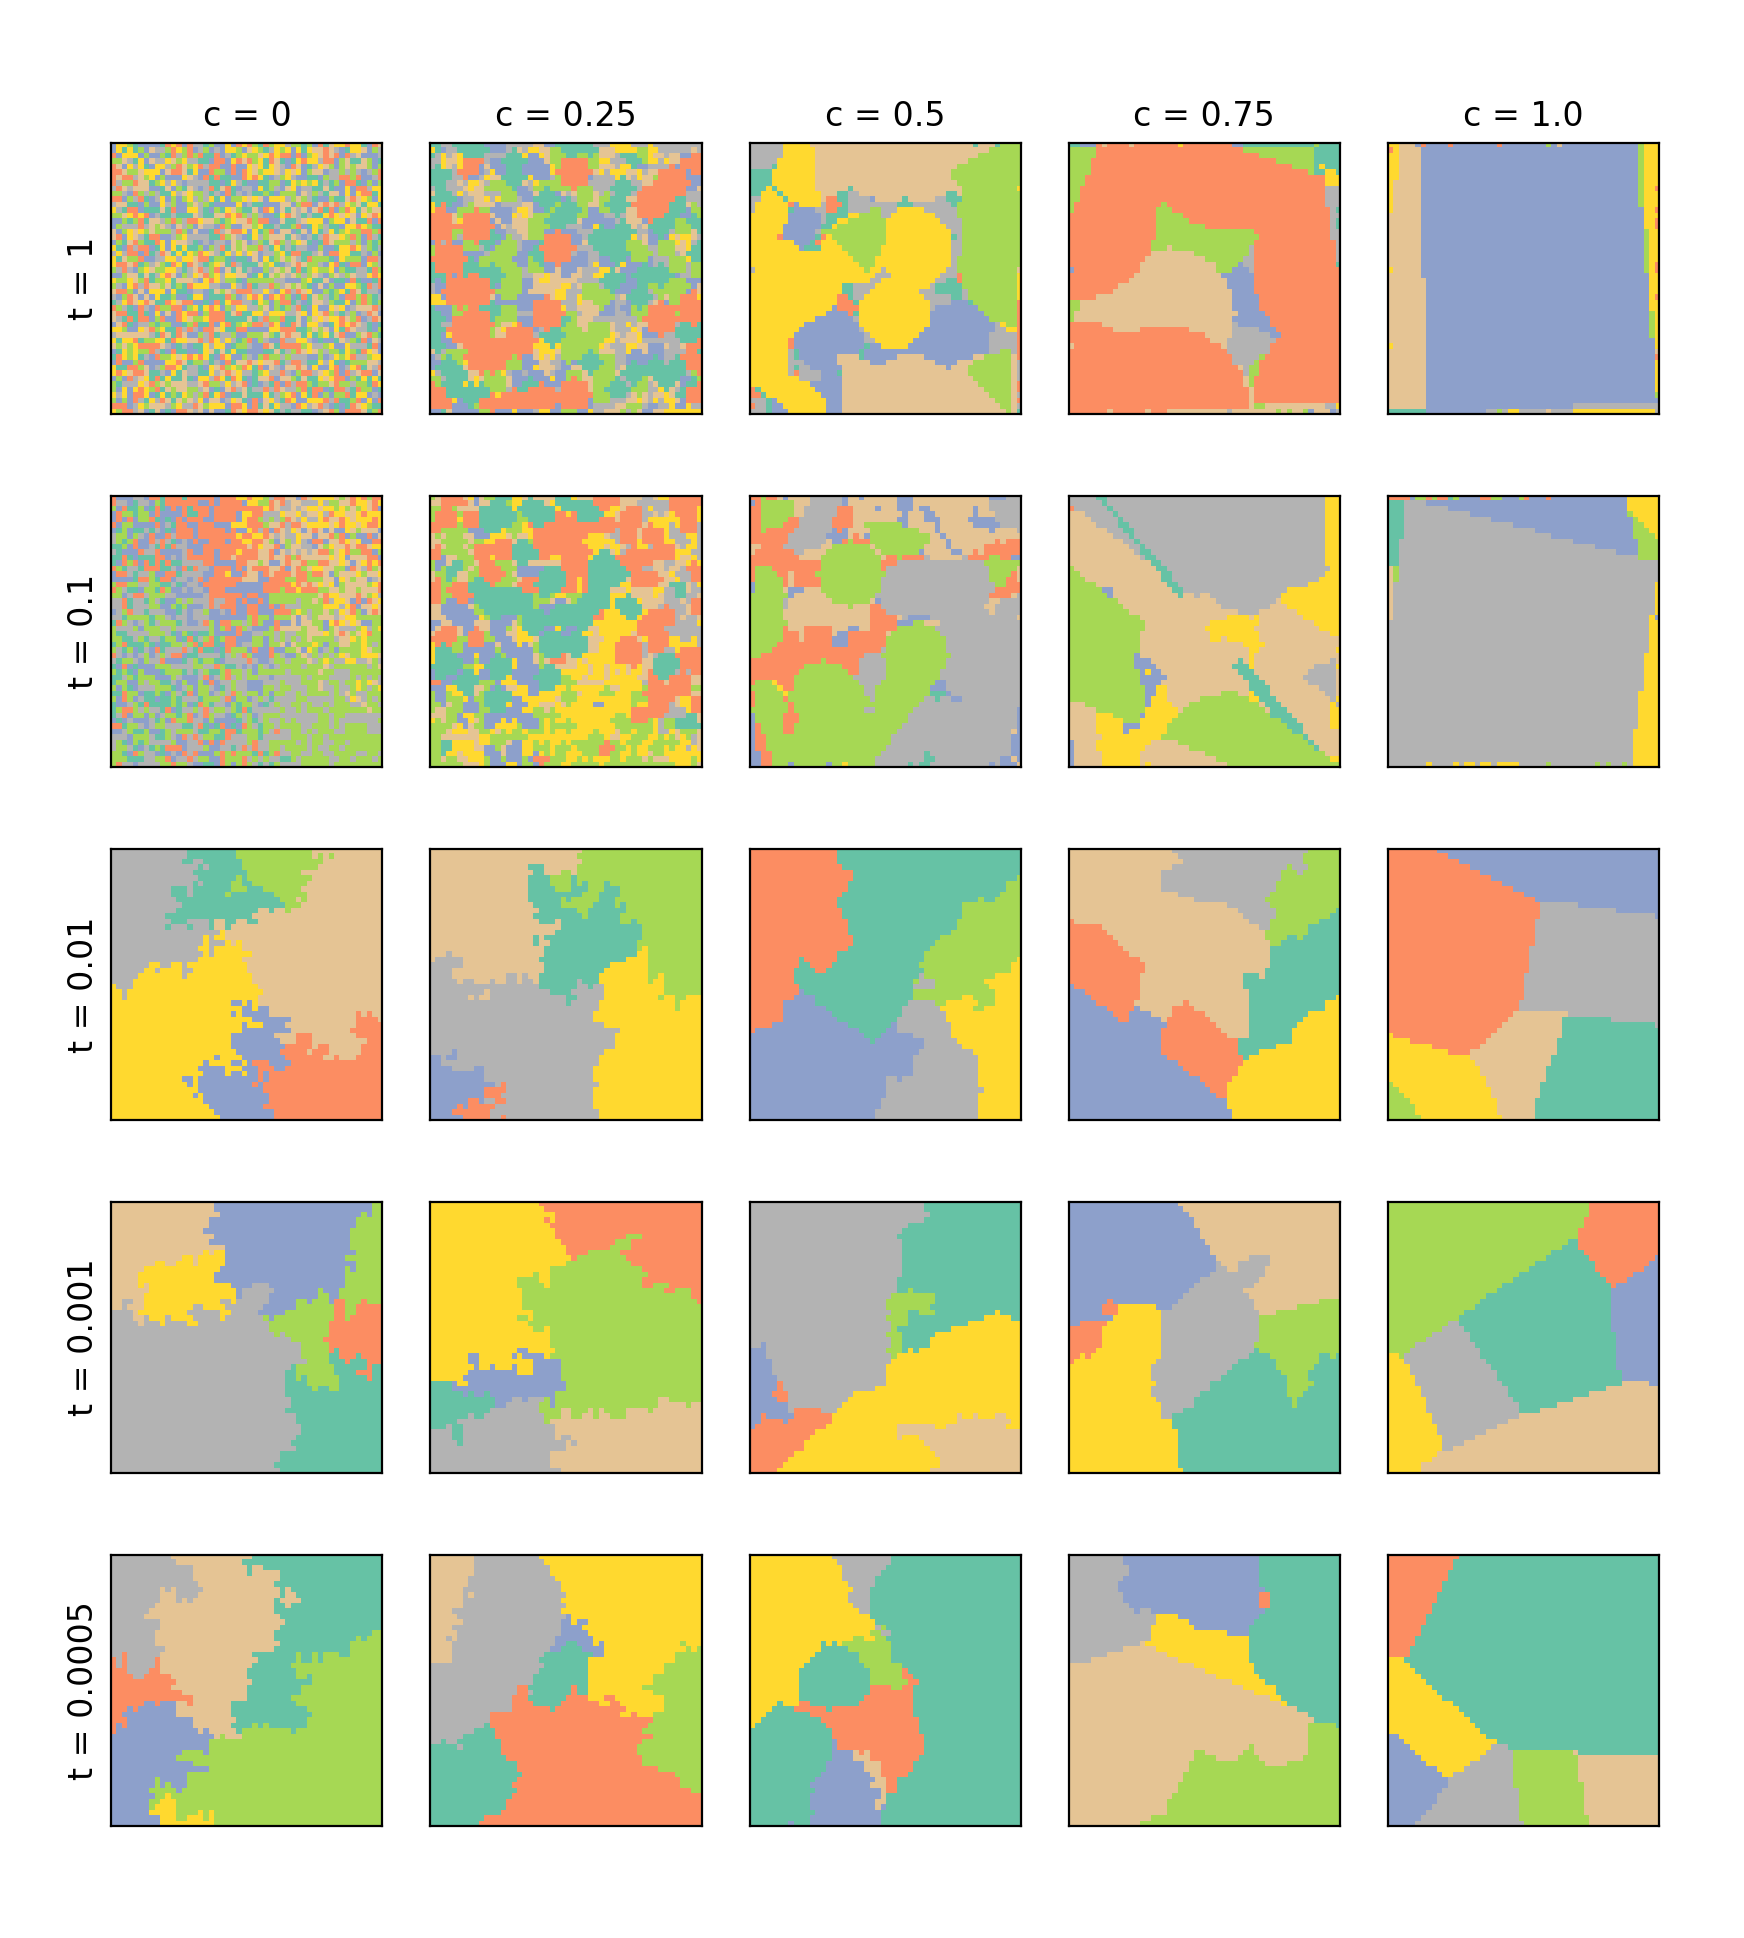
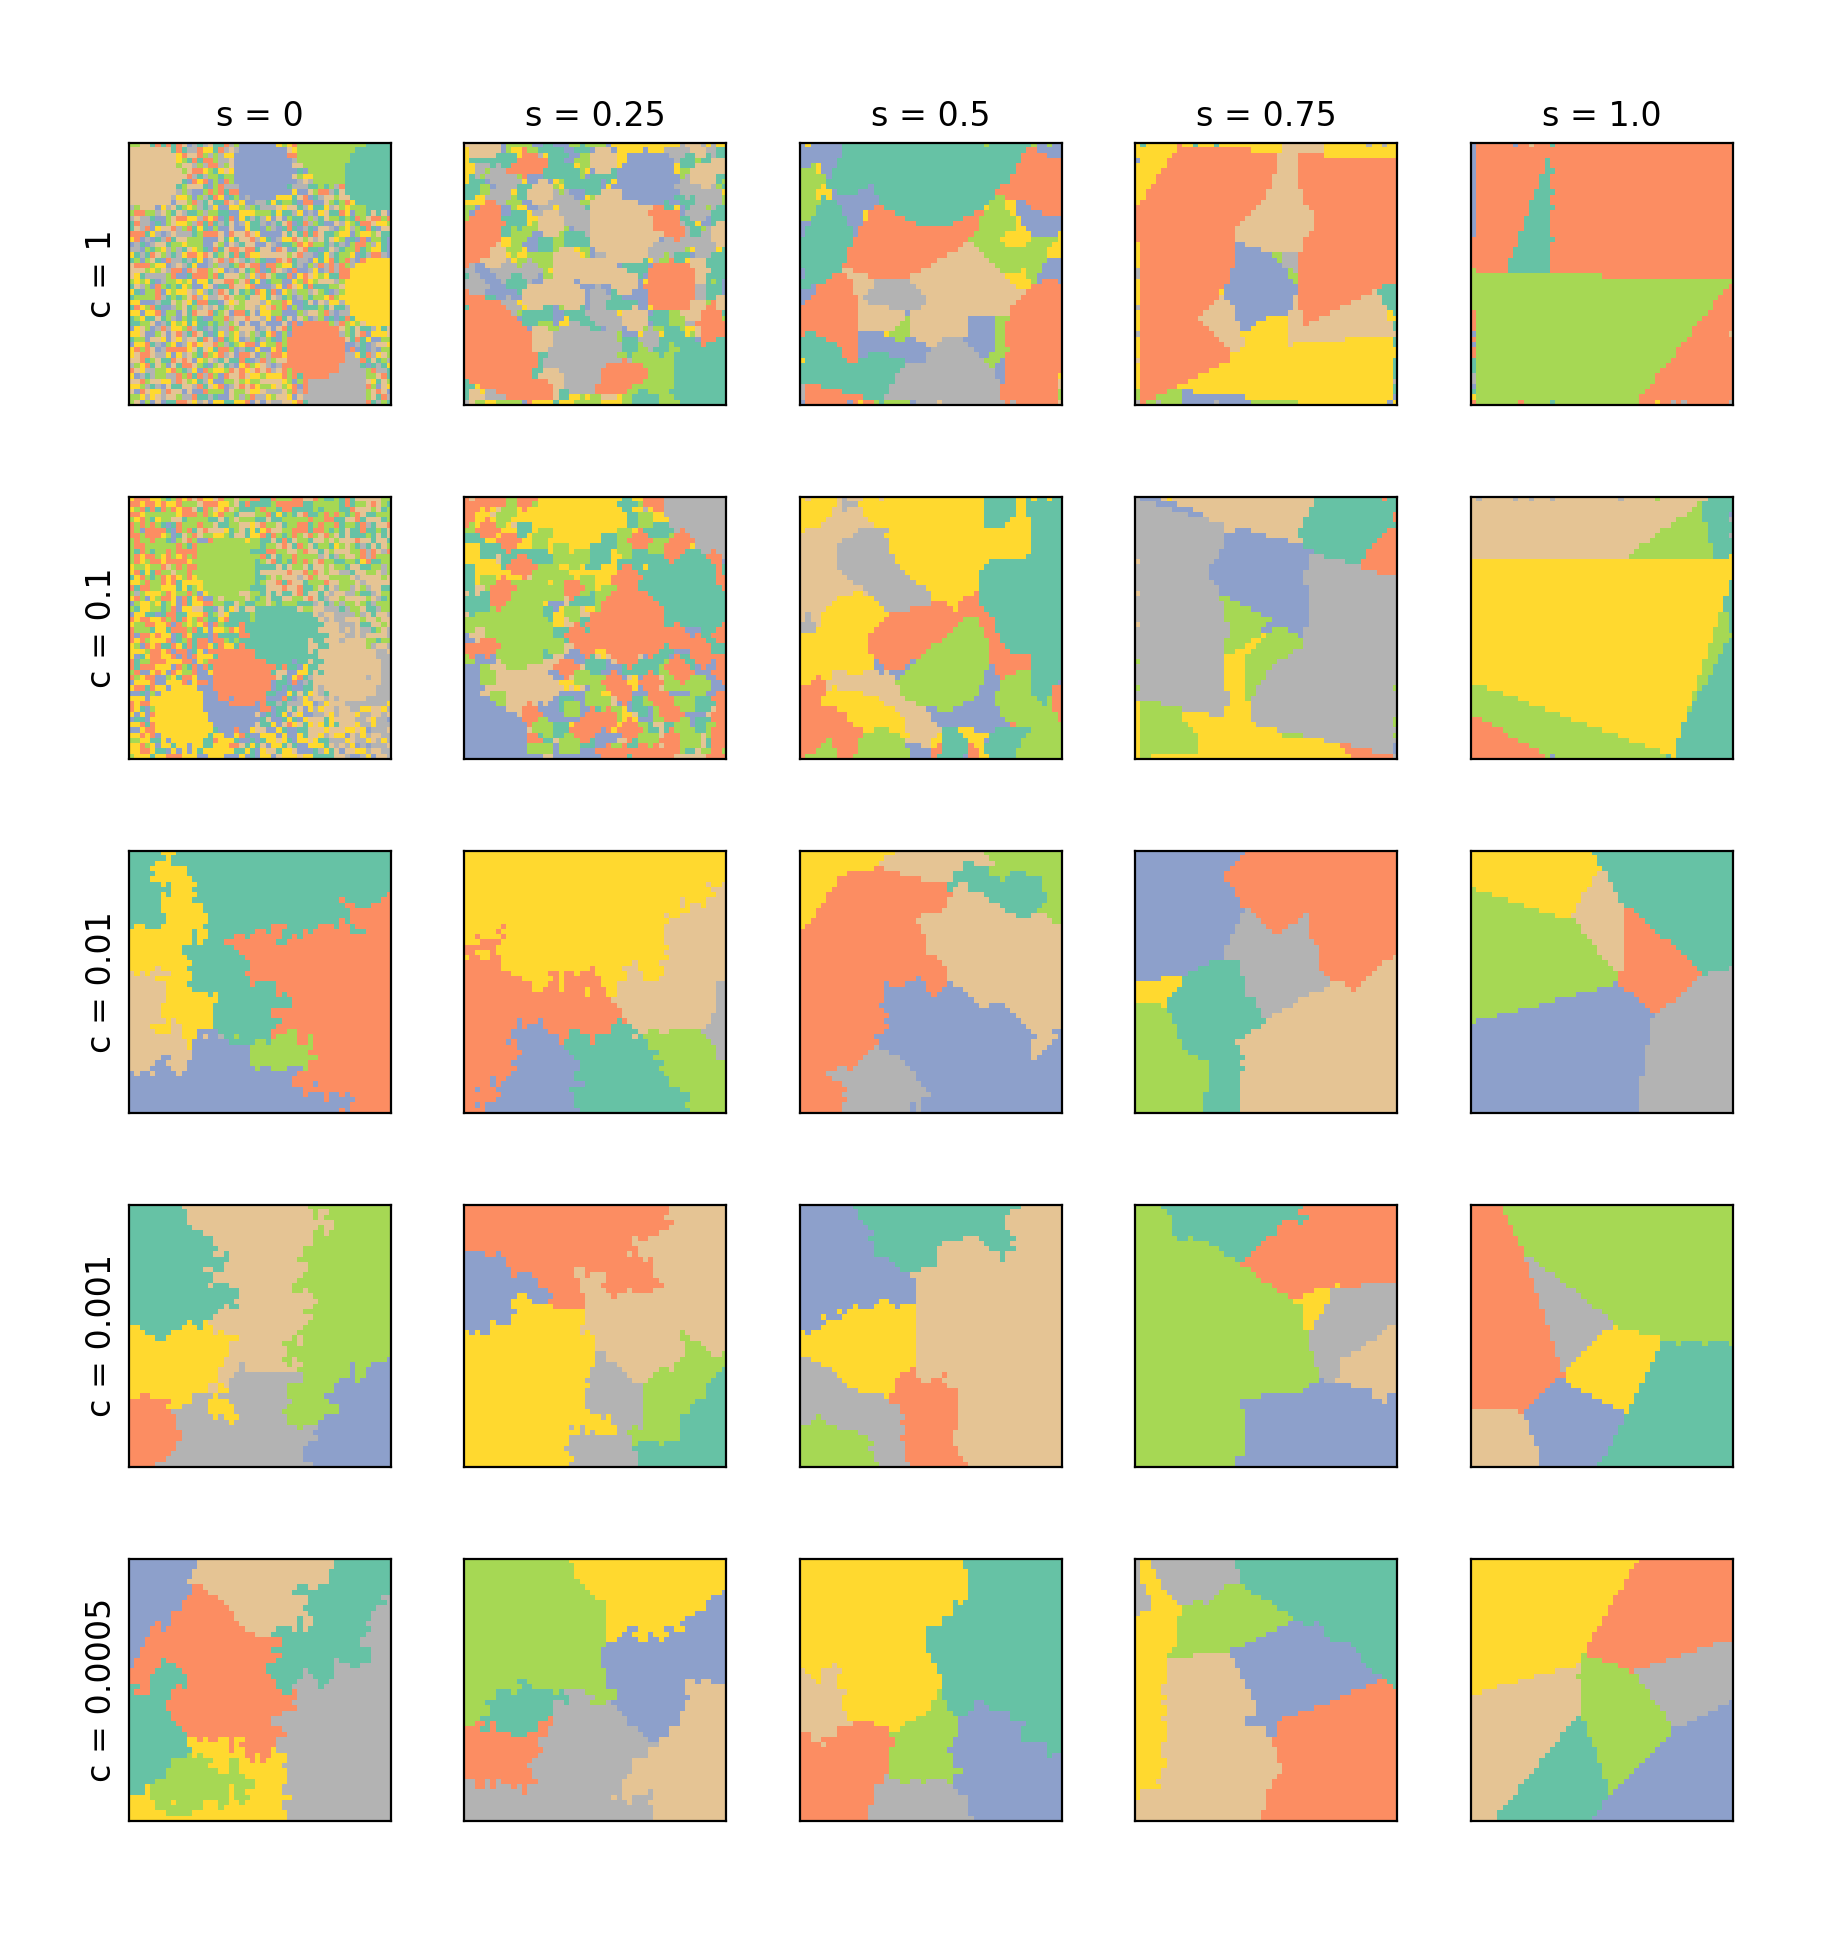
changed labels in grid plot plus some bug fixes

diff --git a/partition.py b/partition.py
@@ -295,7 +295,8 @@ def generate_2D_grid(temps, convs, axis_length):
     noise = np.random.random(points.shape) * 1e-5
     points += noise
     # points = [Point(points[row, :]) for row in range(len(points))]
-    labels = range(7)
+    num_labels = 7
+    labels = range(num_labels)
 
     fig, axes = plt.subplots(nrows=len(temps), ncols=len(convs))
 
@@ -304,7 +305,7 @@ def generate_2D_grid(temps, convs, axis_length):
             temp = temps[row]
             conv = convs[col]
             print '{}, {}'.format(temp, conv)
-            partition = Partition(points, labels, np.zeros(2), temp, conv)
+            partition = Partition(points, num_labels, np.zeros(2), temp, conv)
             print partition.degree_of_convexity()
             print [len(partition.partition[label]) for label in labels]
             img = partition_to_img(partition, my_axes)
@@ -314,10 +315,10 @@ def generate_2D_grid(temps, convs, axis_length):
             ax.imshow(img, aspect='equal', cmap='Set2')
 
     for ax, col in zip(axes[0], convs):
-        ax.set_title('c = {}'.format(col), fontsize=12)
+        ax.set_title('s = {}'.format(col), fontsize=12)
 
     for ax, row in zip(axes[:, 0], temps):
-        ax.set_ylabel('t = {}'.format(row), fontsize=12)
+        ax.set_ylabel('c = {}'.format(row), fontsize=12)
 
     fig.tight_layout(h_pad=0.001, w_pad=0.001)
     plt.show()
@@ -325,13 +326,13 @@ def generate_2D_grid(temps, convs, axis_length):
 
 if __name__ == '__main__':
 
-    # generate_2D_grid([1, 0.1, 0.01, 0.001, 0.0005], [0, 0.25, 0.5, 0.75, 1.0], 50)
+    generate_2D_grid([1, 0.1, 0.01, 0.001, 0.0005], [0, 0.25, 0.5, 0.75, 1.0], 50)
     # generate_2D_grid([0.001, 0.0005], [0.75, 1.0], 40)
 
     points = generate_CIELab_space(axis_stride=0.075)
     print len(points)
-    labels = range(7)
+    num_labels = 7
     for idx in range(4):
-        partition = Partition(points, labels, np.zeros(3), temp=0.001, conv=1.0)
+        partition = Partition(points, num_labels, np.zeros(3), temp=0.001, conv=1.0)
         print partition.degree_of_convexity()
         plot_3D_partition(partition)
